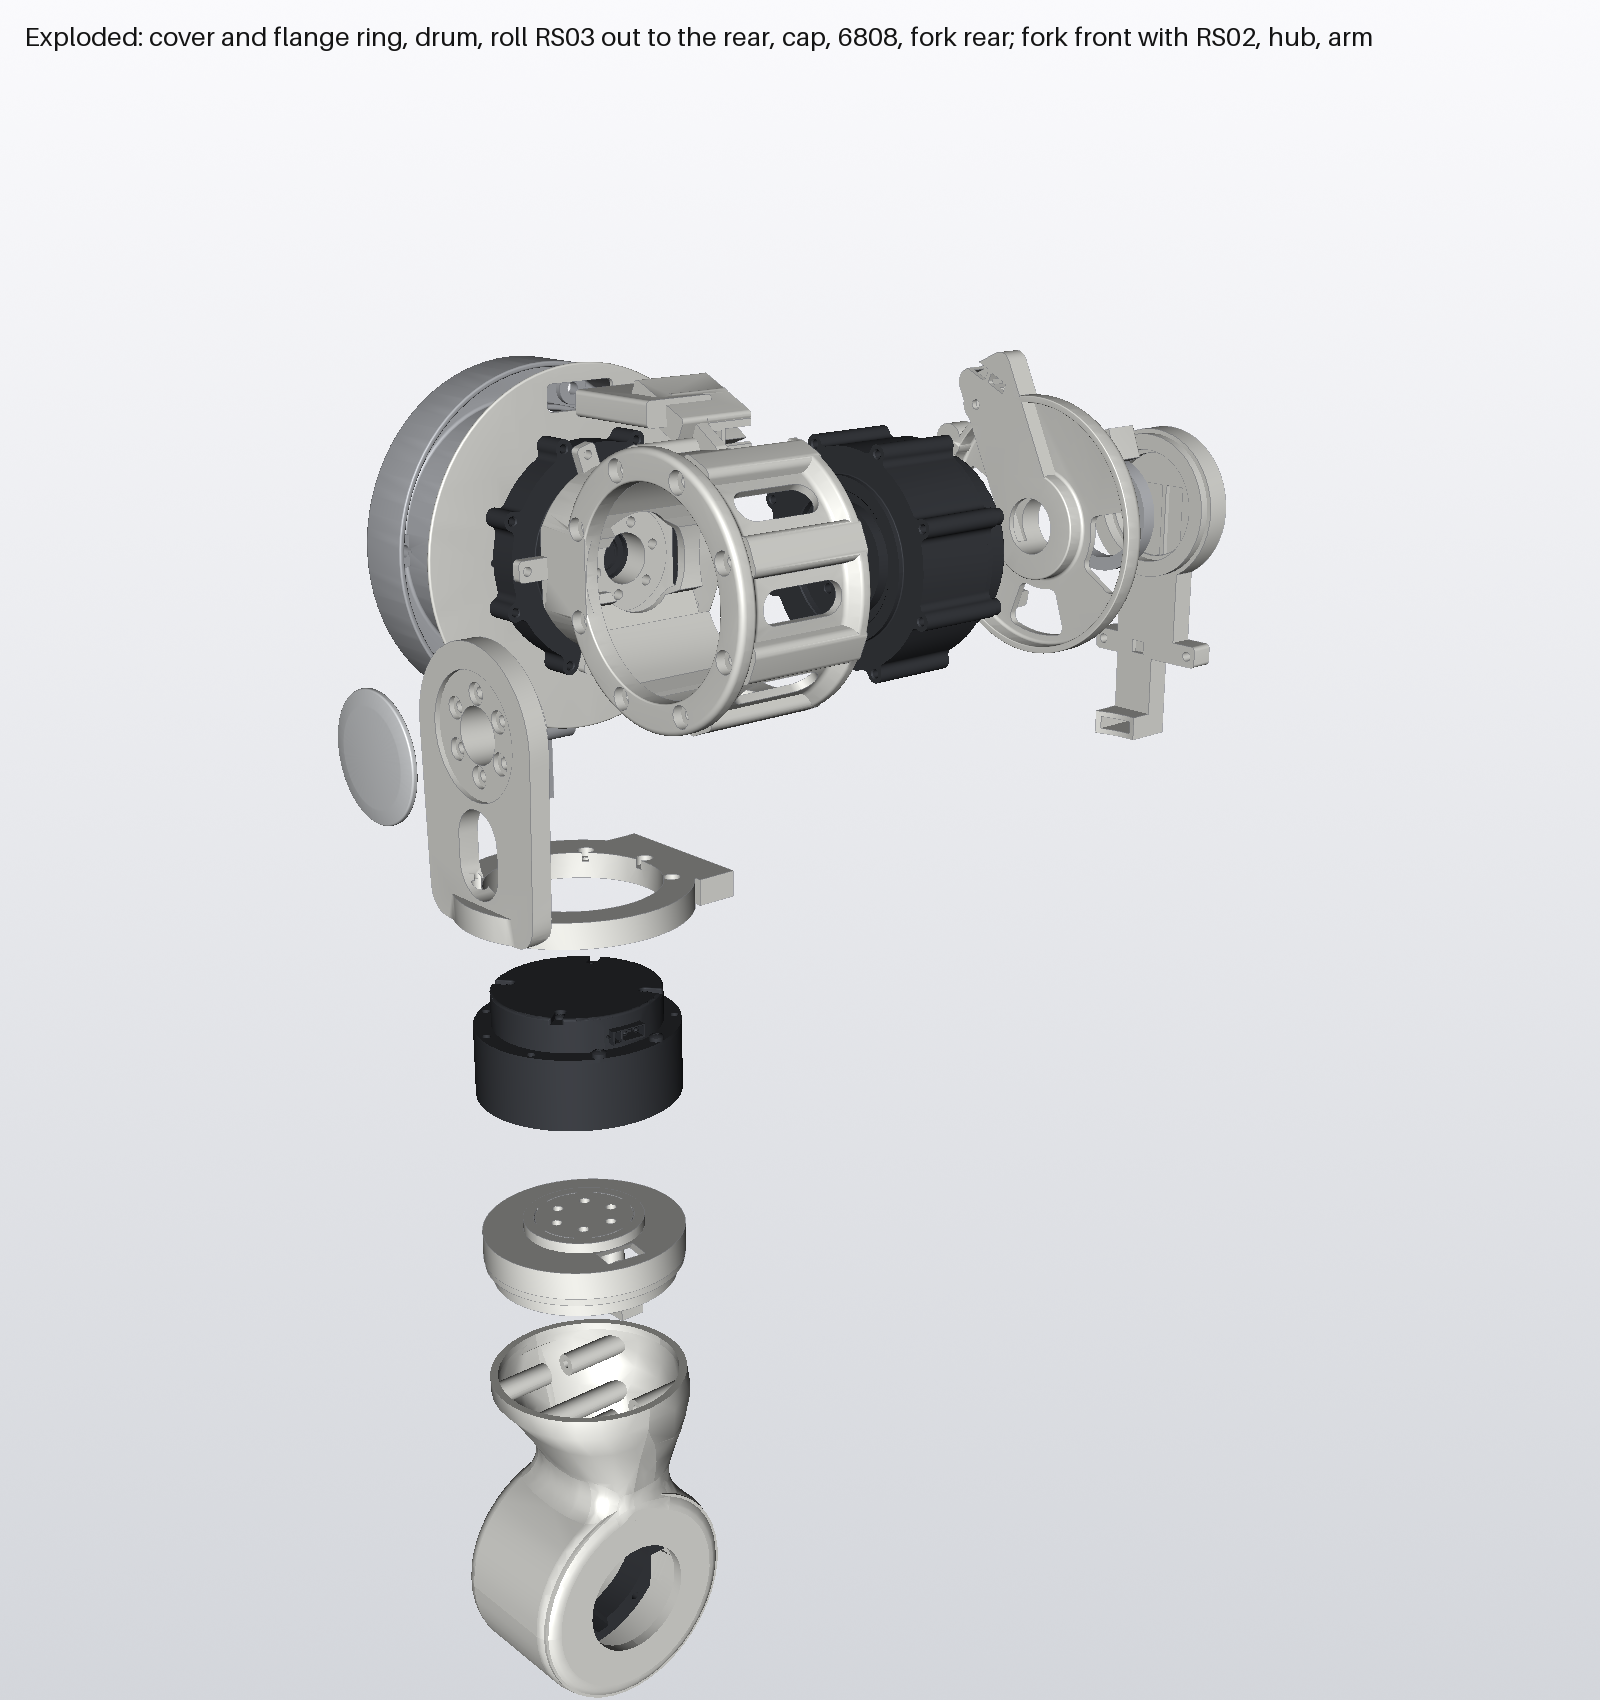
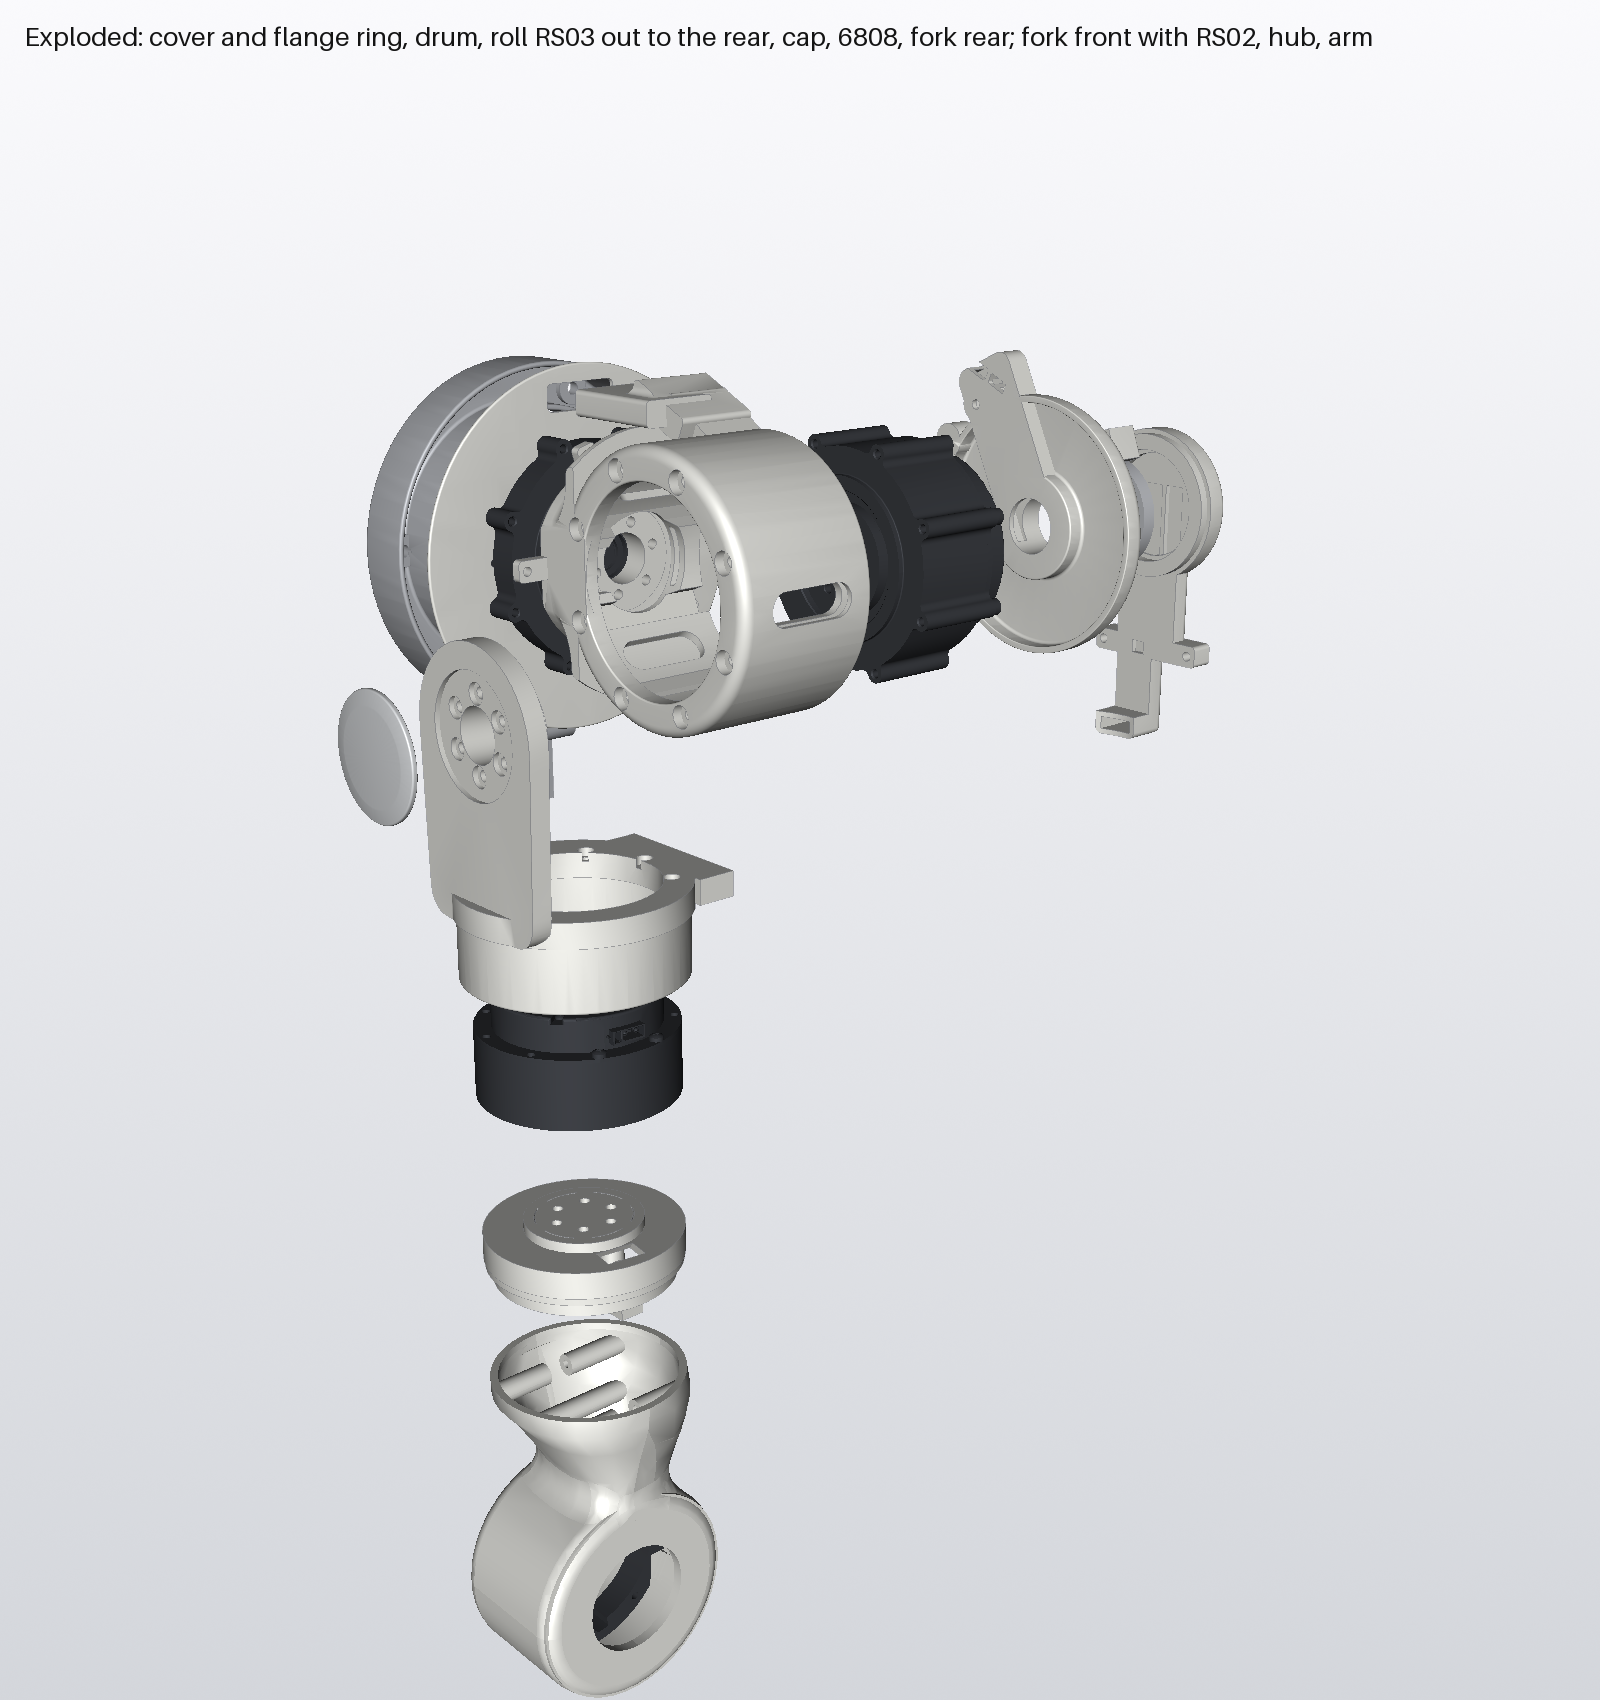
cad: left shoulder first SolidWorks pass: dressed outside
The bare first pass showed too much motor and open structure. Outside
changes, every interface and clearance kept:

- drum: one closed r 57 skin over the roll RS03 with a full round on
  the front lip; the lightening is now pockets under the skin between
  the lug ribs, opened to the bore by windows in the inner wall; one
  styled oval port stays outboard for the pitch pad screws; the neck
  flares into the drum (R12) instead of a tube on a plate; trunk edges
  rounded
- fork front: no web slot; a cuff r 41.3-43.5 wraps the RS02 housing
  down to Y 326, above the hub
- rear cap closed (no plate windows); fork rear arm and back edges
  rounded
- pitch loop cover: full round on the exposed rim

Mass, solid PETG: drum 228.6 g (+39.6), fork front 118.2 g (+26.0, of
which the cuff 19.1), cap 80.9 g (+6.8), fork rear 62.2 g; shoulder
total 585.9 g against the 520 g target. Pictures: D1 with the shell
(option A), D2/D3 clean front and back, D4 bare against dressed; P1-P5
redone on the dressed parts.

diff --git a/cad/scripts/shoulder/build_parts.py b/cad/scripts/shoulder/build_parts.py
@@ -108,19 +108,17 @@ def build_drum():
     n = NECK
     pitch_rev(d, 'NECK', [(n['ri_core'], n['x0']), (n['ro'], n['x0']), (n['ro'], n['x1']), (n['ri'], n['x1']), (n['ri'], n['x_disc']),
                           (n['ri_core'], n['x_disc'])], [0, 2.0, 0, 0, 1.0, 0])
+    fl = FLARE
+    pitch_rev(d, 'FLARE', [(n['ri'], fl['x0']), (n['ro'], fl['x0']), (n['ro'], fl['x1']), (fl['r'], fl['x1']), (fl['r'], fl['x2']), (n['ri'], fl['x2'])],
+              [0, 0, fl['fillet'], 3.0, 0, 0])
     sk = zsk(d, LIP_Z1, 'CLIP_FRONT', lambda s: s.poly(rect_pts((115, RY, LIP_Z1), X, Y, 60, 100)))
-    extrude(d, sk, 'CLIP_FRONT', 20, Z, cut=True)
+    extrude(d, sk, 'CLIP_FRONT', 40, Z, cut=True)
     sk = zsk(d, DRUM_Z0 + 1, 'CLIP_REAR', lambda s: s.poly(rect_pts((115, RY, DRUM_Z0 + 1), X, Y, 60, 100)))
-    extrude(d, sk, 'CLIP_REAR', 20, NZ, cut=True)
+    extrude(d, sk, 'CLIP_REAR', 40, NZ, cut=True)
     # drum: smooth revolved wall with a rounded rear rim and a rounded front lip
-    roll_rev(d, 'DRUM', [(DRUM_RI, DRUM_Z0), (DRUM_RO, DRUM_Z0), (DRUM_RO, DRUM_Z0 + 4.5), (WALL_RO, DRUM_Z0 + 8.5), (WALL_RO, LIP_Z0 - 3),
-                         (LIP_RO, LIP_Z0 + 1), (LIP_RO, LIP_Z1), (LIP_RI, LIP_Z1), (LIP_RI, LIP_Z0), (DRUM_RI, LIP_Z0)],
-             [0, 1.0, 2.0, 3.0, 3.0, 2.0, 2.5, 0.8, 0, 0])
-    # ribs over the 8 lug slots (soft outer corners)
-    def ribs(s):
-        for th in LUG_ANGLES:
-            s.rpoly(radial_rect((RX, RY), 47.5, DRUM_RO, th, 16.0, DRUM_Z0), [0, 3.5, 3.5, 0])
-    extrude(d, zsk(d, DRUM_Z0, 'RIBS', ribs), 'RIBS', LIP_Z0 - DRUM_Z0, Z)
+    # DRESSED: one closed drum, r 48-57, rounded rear rim and a full round on the front lip; pockets under the skin below
+    roll_rev(d, 'DRUM', [(DRUM_RI, DRUM_Z0), (DRUM_RO, DRUM_Z0), (DRUM_RO, LIP_Z1), (LIP_RI, LIP_Z1), (LIP_RI, LIP_Z0), (DRUM_RI, LIP_Z0)],
+             [0, 1.5, 5.0, 0.8, 0, 0])
     # cap ears
     extrude(d, zsk(d, DRUM_Z0, 'EARS', lambda s: [s.circle(rpt(EAR_PCD, a, DRUM_Z0), EAR_R) for a in EAR_ANGLES]), 'EARS', 9.0, Z)
     # spokes for the flange ring
@@ -146,6 +144,11 @@ def build_drum():
     b0, b1 = (TRUNK_X, TRUNK_Y, -17.0 + SHW / 2), (RX - 8, 474.5, -17.0 + SHW / 2)
     extrude(d, zsk(d, b0[2], 'BRANCH', lambda s: s.rpoly(seg_rect(b0, b1, (0, 0, 0) if False else np.cross((0, 0, 1), np.subtract(b1, b0)), SHH, 2 + WALL, 2 + WALL),
                                                          [2, 2, 2, 2])), 'BRANCH', b0[2] - DRUM_Z0, NZ)
+    # DRESSED: soften the trunk shells (long edges)
+    along_x = lambda a, b: abs(a[0] - b[0]) > 10.0 and abs(a[1] - b[1]) < 0.05 and abs(a[2] - b[2]) < 0.05
+    fillet(d, edges_where(d, lambda p: p[1] > 482.0, along_x), [3.0, 2.0], 'TRUNK_A_ROUND')
+    along_z = lambda a, b: abs(a[2] - b[2]) > 10.0 and abs(a[0] - b[0]) < 0.05 and abs(a[1] - b[1]) < 0.05
+    fillet(d, edges_where(d, lambda p: p[1] > 470.0 and abs(p[0] - TRUNK_X) < 25.0 and p[2] < 7.0, along_z), [3.0, 2.0], 'TRUNK_B_ROUND')
     # ---- cuts
     roll_rev(d, 'BORE', [(0, DRUM_Z0 - 1), (DRUM_RI, DRUM_Z0 - 1), (DRUM_RI, LIP_Z0), (0, LIP_Z0)], cut=True)
     extrude(d, zsk(d, DRUM_Z0, 'LUG_SLOTS', lambda s: [s.poly(radial_rect((RX, RY), 44.0, SLOT_R, th, 2 * SLOT_HALF, DRUM_Z0)) for th in LUG_ANGLES]),
@@ -174,9 +177,14 @@ def build_drum():
             'BRANCH_P', PW, NZ, cut=True)
     extrude(d, zsk(d, zs, 'BRANCH_S', lambda s: s.rpoly(seg_rect((b0[0], b0[1], zs), (b1[0], b1[1], zs), bn, SH, 2, 6), [1, 1, 1, 1])),
             'BRANCH_S', SW, NZ, cut=True)
-    # window over the roll RS03 top connector bay
+    # pockets between the lug ribs, under the skin (rib half-width 8 at r 53)
+    def pockets(s):
+        for th in LUG_ANGLES:
+            sector(s, lambda r, a: rpt(r, a, POCKET_Z[0]), WALL_RO, SKIN_RI, th + 9.0, th + 36.0, 1.5)
+    extrude(d, zsk(d, POCKET_Z[0], 'POCKETS', pockets), 'POCKETS', POCKET_Z[1] - POCKET_Z[0], Z, cut=True)
+    # window over the roll RS03 top connector bay, inside the skin (the branch channels open the skin where they pass)
     tw = TOPWIN
-    extrude(d, zsk(d, DRUM_Z0 - 1, 'TOP_WINDOW', lambda s: s.rpoly(rect_pts((RX, RY + 54.0, DRUM_Z0 - 1), X, Y, 2 * tw['x'], 22.0), [3, 3, 3, 3])),
+    extrude(d, zsk(d, DRUM_Z0 - 1, 'TOP_WINDOW', lambda s: s.rpoly(rect_pts((RX, RY + 47.25, DRUM_Z0 - 1), X, Y, 2 * tw['x'], 14.5), [3, 3, 3, 3])),
             'TOP_WINDOW', tw['z1'] - DRUM_Z0 + 1, Z, cut=True)
     rb = RS03_BUMP
     extrude(d, zsk(d, rb['z0'], 'RS03_RELIEF', lambda s: s.rpoly(rect_pts(((rb['x0'] + rb['x1']) / 2, RY, rb['z0']), X, Y, rb['x1'] - rb['x0'], 2 * rb['y']), [2] * 4)),
@@ -188,7 +196,9 @@ def build_drum():
         pl, _ = plane_axis_angle(d, ax, d.FeatureByName('Top Plane'), (th + 90) % 180, tdir, f'P_WIN{k}')
         with Sk(d, pl, f'WIN{k}') as s:
             s.slot((RX, RY, -11.0), (RX, RY, 15.0), 14.0)
-        extrude(d, s.feat, f'WIN{k}', 80, (math.cos(math.radians(th)), math.sin(math.radians(th)), 0), cut=True, mode=THRU_ALL)
+        port = abs(th - PORT_ANGLE) < 1e-6
+        extrude(d, s.feat, f'PORT' if port else f'WIN{k}', 80 if port else SKIN_RI - 1.8, (math.cos(math.radians(th)), math.sin(math.radians(th)), 0), cut=True,
+                mode=THRU_ALL if port else BLIND)
     return finish_part(d, 'drum')
 
 
@@ -241,8 +251,6 @@ def build_cap():
     stop_lug(d, ax, 'OUT', ROLL_STOP_OUT, +1)
     # ---- cuts
     roll_rev(d, 'BORE', [(0, DRUM_Z0 + 1), (STUB_BORE, DRUM_Z0 + 1), (STUB_BORE, BRG_Z[1] - 1), (0, BRG_Z[1] - 1)], cut=True)
-    extrude(d, zsk(d, CAP_Z1 - 1, 'WINDOWS', lambda s: [sector(s, lambda r, a: rpt(r, a, CAP_Z1 - 1), 29.0, 50.0, a0, a1, 4.0) for a0, a1 in CAP_WINDOWS]),
-            'WINDOWS', CAP_T + 2, Z, cut=True)
     extrude(d, zsk(d, CAP_Z1 - 1, 'EAR_HOLES', lambda s: [s.circle(rpt(EAR_PCD, a, CAP_Z1 - 1), 2.25) for a in EAR_ANGLES]), 'EAR_HOLES', 14, Z, cut=True)
     extrude(d, zsk(d, CAP_Z1 - 1, 'EAR_CB', lambda s: [s.circle(rpt(EAR_PCD, a, CAP_Z1 - 1), 4.0) for a in EAR_ANGLES]), 'EAR_CB', 4.5, Z, cut=True)
     zt = CAPZ + PH / 2
@@ -287,6 +295,9 @@ def build_fork_front():
     extrude(d, ysk(d, SEAT_Y[0], 'SEAT', seat), 'SEAT', SEAT_Y[1] - SEAT_Y[0], Y)
     extrude(d, ysk(d, SEAT_Y[0], 'TAP_SECTOR', lambda s: sector(s, lambda r, a: ypt(r, a, SEAT_Y[0]), SEAT_RI + 1, 49.0, -170, -100, 3.0)),
             'TAP_SECTOR', SEAT_Y[1] - SEAT_Y[0], Y)
+    # DRESSED: cuff round the RS02 housing, down to just above the hub
+    cf = CUFF
+    yaw_rev(d, 'CUFF', [(cf['ri'], cf['y0']), (cf['ro'], cf['y0']), (cf['ro'], SEAT_Y[0] + 2.0), (cf['ri'], SEAT_Y[0] + 2.0)], [1.0, 1.0, 0, 0])
     ym = (SEAT_Y[0] + SEAT_Y[1]) / 2
     extrude(d, zsk(d, JZ0, 'JOINT_PAD', lambda s: s.rpoly(rect_pts((RX, ym, JZ0), X, Y, 2 * JX, SEAT_Y[1] - SEAT_Y[0]), [0, 0, 0, 0])),
             'JOINT_PAD', -30.0 - JZ0, Z)
@@ -296,8 +307,6 @@ def build_fork_front():
     extrude(d, zsk(d, ROLL_OUT - 1, 'OUT_HOLES', lambda s: [s.circle(rpt(15.2, 30 + 60 * k, ROLL_OUT - 1), 2.25) for k in range(6)]), 'OUT_HOLES', 30, Z, cut=True)
     extrude(d, zsk(d, FRONT_Z[1] - 4, 'OUT_CB', lambda s: [s.circle(rpt(15.2, 30 + 60 * k, FRONT_Z[1] - 4), 4.25) for k in range(6)]), 'OUT_CB', 10, Z, cut=True)
     extrude(d, zsk(d, FRONT_Z[1] - 2, 'CAP_RECESS', lambda s: s.circle((RX, RY, FRONT_Z[1] - 2), 24.0)), 'CAP_RECESS', 5, Z, cut=True)
-    extrude(d, zsk(d, FRONT_Z[0] - 1, 'WEB_WINDOW', lambda s: s.slot((RX, 381.0 - 5.0, 0), (RX, 381.0 + 5.0, 0), 24.0)), 'WEB_WINDOW',
-            FRONT_Z[1] - FRONT_Z[0] + 2, Z, cut=True)
     extrude(d, ysk(d, SEAT_Y[0] - 5, 'RS02_HOLES', lambda s: [s.circle(ypt(36.5, a, SEAT_Y[0] - 5), 1.8) for a in RS02_SCREWS]), 'RS02_HOLES', 30, Y, cut=True)
     extrude(d, ysk(d, SEAT_Y[1] - 3.5, 'RS02_CB', lambda s: [s.circle(ypt(36.5, a, SEAT_Y[1] - 3.5), 3.3) for a in RS02_SCREWS]), 'RS02_CB', 10, Y, cut=True)
     extrude(d, ysk(d, SEAT_Y[0] - 1, 'SOCKETS', lambda s: [sector(s, lambda r, a: ypt(r, a, SEAT_Y[0] - 1), 30.0, 40.5, a0, a1, 1.5) for a0, a1 in SOCKET_POCKETS]),
@@ -307,6 +316,8 @@ def build_fork_front():
     extrude(d, zsk(d, tz, 'TAP_LINK', lambda s: s.poly(rect_pts((RX - 4.0, sum(TAP_Y) / 2, tz), X, Y, 7.0, 6.0))), 'TAP_LINK', tz - RZ, NZ, cut=True)
     extrude(d, zsk(d, JZ0 - 1, 'JOINT_INSERTS', lambda s: [s.circle((RX + dx, (SEAT_Y[0] + SEAT_Y[1]) / 2, JZ0 - 1), 2.8) for dx in (-JX + 4.5, JX - 4.5)]),
             'JOINT_INSERTS', 12, Z, cut=True)
+    # DRESSED: soft front edge on the cheek outline
+    fillet(d, edges_where(d, lambda p: abs(p[2] - FRONT_Z[1]) < 0.05 and p[1] > 355.0 and np.hypot(p[0] - RX, p[1] - RY) > 25.0), [4.0, 3.0, 2.0], 'CHEEK_ROUND')
     return finish_part(d, 'fork_front')
 
 
@@ -340,6 +351,11 @@ def build_fork_rear():
     tz = YZ - 41.0
     extrude(d, zsk(d, JZ0 + 0.5, 'TAP_LINK', lambda s: s.poly(rect_pts((RX - 4.0, sum(TAP_Y) / 2, JZ0 + 0.5), X, Y, 7.0, 6.0))), 'TAP_LINK', JZ0 + 0.5 - RZ, NZ, cut=True)
     extrude(d, ysk(d, Y_BOT - 5, 'YAW_CLEAR', lambda s: s.circle((RX, Y_BOT - 5, YZ), 41.5)), 'YAW_CLEAR', SEAT_Y[0] - (Y_BOT - 5), Y, cut=True)
+    # DRESSED: round the arm and duct along their length, and the joint lugs
+    along_y = lambda a, b: abs(a[1] - b[1]) > 8.0 and abs(a[0] - b[0]) < 0.05 and abs(a[2] - b[2]) < 0.05
+    fillet(d, edges_where(d, lambda p: p[2] < JZ0 - 0.5 and p[1] < RY - 30, along_y), [4.0, 3.0, 2.0], 'ARM_ROUND')
+    # DRESSED: soft back edges
+    fillet(d, edges_where(d, lambda p: abs(p[2] - BACK_Z) < 0.05 and np.hypot(p[0] - (RX + 30), p[1] - 357) > 6.0 and np.hypot(p[0] - (RX - 30), p[1] - 357) > 6.0), [3.0, 2.0, 1.5], 'BACK_ROUND')
     return finish_part(d, 'fork_rear')
 
 
@@ -365,7 +381,7 @@ def build_cover():
     f = FEED
     pitch_rev(d, 'WALLS', [(c['in_'][0], c['back_x'][0]), (c['out'][1], c['back_x'][0]), (c['out'][1], c['x1']), (c['out'][0], c['x1']),
                            (c['out'][0], c['back_x'][1]), (c['in_'][1], c['back_x'][1]), (c['in_'][1], c['in_x1']), (c['in_'][0], c['in_x1'])],
-              [0.5, 3.0, 0.9, 0.9, 1.5, 1.5, 0.9, 0.9])
+              [0.5, 3.0, 1.19, 1.19, 1.5, 1.5, 0.9, 0.9])     # DRESSED: full round on the exposed rim (clean band)
     # fixing tabs (placeholders): local 5 mm pads on the back wall, M5 clearance, screws from outboard into T-nuts
     bx = c['back_x'][0]
     extrude(d, xsk(d, c['back_x'][1], 'TABS', lambda s: [s.circle((c['back_x'][1], y, z), 7.0) for y, z in COVER_TABS]), 'TABS', 5.0 - (c['back_x'][1] - bx), X)

diff --git a/hardware/shoulder/study-20261111/cad-pass1/scripts/render_pass1.py b/hardware/shoulder/study-20261111/cad-pass1/scripts/render_pass1.py
@@ -147,7 +147,7 @@ def shoulder_items(offsets=None, with_arm=True, with_frame=True, cover=True, op=
 def main():
     F = np.array([RX - 25, RY - 40, 0.0])
     eye_front = F + np.array([420.0, 90.0, 560.0])
-    render(shoulder_items(), OUT / 'P1_look_front_outboard.png', eye_front, F, title='Left shoulder, first SolidWorks pass: front-outboard, neutral, frozen upper arm, rev A frame')
+    render(shoulder_items(), OUT / 'P1_look_front_outboard.png', eye_front, F, title='Left shoulder, first SolidWorks pass, dressed: front-outboard, neutral, frozen upper arm, rev A frame')
     eye_back = F + np.array([380.0, 140.0, -560.0])
     render(shoulder_items(), OUT / 'P2_back.png', eye_back, F, title='Back: rear cap with the stub, stop lugs (roll -11 / +110), fork rear cheek')
     ex = dict(cover=(-45, 0, 0), ring=(-25, 0, 0), roll_rs03=(0, 0, -95), cap=(0, 0, -150), bearing=(0, 0, -185), fork_rear=(0, 0, -215),
@@ -199,6 +199,23 @@ def main():
     sheet.save(OUT / 'P5_today_vs_pass1.png')
     for f in OUT.glob('_*.png'):
         f.unlink()
+    # dressed views without the frame, and bare (first commit of this pass) against dressed
+    render(shoulder_items(with_frame=False), OUT / 'D2_front_clean.png', eye_front, F, title='Dressed: front-outboard, no frame or shell')
+    render(shoulder_items(with_frame=False), OUT / 'D3_back_clean.png', eye_back, F, title='Dressed: back, no frame or shell')
+    bare = [Path(p) for p in sys.argv[2:4]] if len(sys.argv) > 3 else []
+    if bare:
+        rows = []
+        for b, n in zip(bare, ('P1_look_front_outboard.png', 'P2_back.png')):
+            a, c = Image.open(b).convert('RGB'), Image.open(OUT / n).convert('RGB')
+            row = Image.new('RGB', (a.width + c.width, a.height), 'white'); row.paste(a, (0, 0)); row.paste(c, (a.width, 0))
+            ImageDraw.Draw(row).text((24, 60), 'BARE (first pass)', fill=(150, 20, 20), font=FONT)
+            ImageDraw.Draw(row).text((a.width + 24, 60), 'DRESSED', fill=(20, 110, 20), font=FONT)
+            rows.append(row)
+        sheet = Image.new('RGB', (rows[0].width, sum(r.height for r in rows)), 'white')
+        y = 0
+        for r in rows:
+            sheet.paste(r, (0, y)); y += r.height
+        sheet.save(OUT / 'D4_bare_vs_dressed.png')
     print('done', flush=True)
 
 

diff --git a/cad/scripts/shoulder/swk.py b/cad/scripts/shoulder/swk.py
@@ -3,6 +3,7 @@
 One SolidWorks instance per working session, reused across scripts through sw_instance.session() (tools/solidworks/RULES.md).
 Sketch points are mapped through each sketch's ModelToSketchTransform, so a plane's orientation never matters.
 """
+import inspect
 import math
 import os
 import sys
@@ -384,19 +385,18 @@ def revolve(d, sk, name, cut=False, angle=360.0, lo=0.5):
     return f
 
 
-def edges_where(d, test):
+def edges_where(d, test, pair=None):
     """Edges of all bodies whose start, end and mid points pass test(p) (model mm)."""
     out = []
     for b in (d.GetBodies2(0, True) or []):
-        for e in (b.GetEdges or []):
+        es = b.GetEdges
+        for e in ((es() if inspect.ismethod(es) else es) or []):
             cp = e.GetCurveParams3
+            cp = cp() if inspect.ismethod(cp) else cp
             p0 = np.array(cp.StartPoint[:3]) * 1e3
             p1 = np.array(cp.EndPoint[:3]) * 1e3
-            c = e.GetCurve
-            t0, t1 = cp.UParam1, cp.UParam2
-            mid = c.Evaluate2((t0 + t1) / 2, 0)
-            pm = np.array(mid[:3]) * 1e3 if mid else (p0 + p1) / 2
-            if test(p0) and test(p1) and test(pm):
+            pm = (p0 + p1) / 2 if np.linalg.norm(p1 - p0) > 1e-6 else p0
+            if test(p0) and test(p1) and test(pm) and (pair is None or pair(p0, p1)):
                 out.append(e)
     return out
 

diff --git a/cad/scripts/shoulder/dims.py b/cad/scripts/shoulder/dims.py
@@ -29,7 +29,12 @@ LIP_PCD_R = 49.0
 DRUM_Z0 = -28.5                  # rear rim = cap front face
 EAR_ANGLES = [125.0, 148.0, 212.0]   # cap screws, inboard/top; CHANGED from 130/165/200: those ears reached X 104 into the flange ring
 EAR_R, EAR_PCD = 7.5, 61.0
-WIN_ANGLES = [0.0, 45.0, -45.0, -90.0]     # drum wall windows (between ribs)
+WIN_ANGLES = [0.0, 45.0, 135.0, 225.0, 270.0, 315.0]   # windows in the inner wall into the pockets under the skin
+PORT_ANGLE = 0.0                 # the one window through the skin: driver access to the 6 pitch pad screws (styled oval port)
+SKIN_RI = 55.0                   # DRESSED: closed outer skin r 55-57 over the roll RS03; pockets r 51.5-55 between the lug ribs
+POCKET_Z = (DRUM_Z0 + 4.0, LIP_Z0 - 3.0)
+FLARE = dict(x0=105.0, x1=119.0, x2=124.0, r=56.0, fillet=12.0)   # DRESSED: neck flares into the drum (pitch axis)
+CUFF = dict(ri=41.3, ro=43.5, y0=326.0)   # DRESSED: fork front cuff round the RS02 housing (r 39.25) down to Y 326
 RS03_BUMP = dict(x0=RX - 53.0, x1=RX - 46.0, y=9.5, z0=18.6)   # relief for the RS03 housing boss at r 50.25 inboard (Z 19.6-28.1)
 TOPWIN = dict(x=14.0, z0=-28.5, z1=-6.0)   # window over the roll RS03 top connector bay (half width X)
 # pitch adaptor

diff --git a/cad/scripts/shoulder/check_clearance.py b/cad/scripts/shoulder/check_clearance.py
@@ -92,7 +92,7 @@ def frame_samples(path=None, sp=1.0):
     out = []
     for nm, sh in named_solids(path or FRAME_STEP):
         bb = sh.BoundingBox()
-        if bb.xmax < 60 or bb.ymax < 250 or nm.split('__')[0] in ('actuator', 'shellpart'):
+        if bb.xmax < 60 or bb.ymax < 250 or nm.split('__')[0] in ('actuator', 'shellpart') or nm.startswith('fastener__c1_'):
             continue
         m = tess(sh)
         if m.area > 0:

diff --git a/cad/scripts/shoulder/check_reva.py b/cad/scripts/shoulder/check_reva.py
@@ -45,7 +45,7 @@ def main():
         p = samp(m, 1.0) + shift
         if grp in ('actuator',):                   # the pitch RS03 envelope: the real motor is in the model
             continue
-        if grp == 'shellpart':
+        if grp == 'shellpart' or nm.startswith('fastener__c1_'):   # the shell collar and its screws
             other[nm] = p
             continue
         fr.append(p); names += [nm] * len(p)
